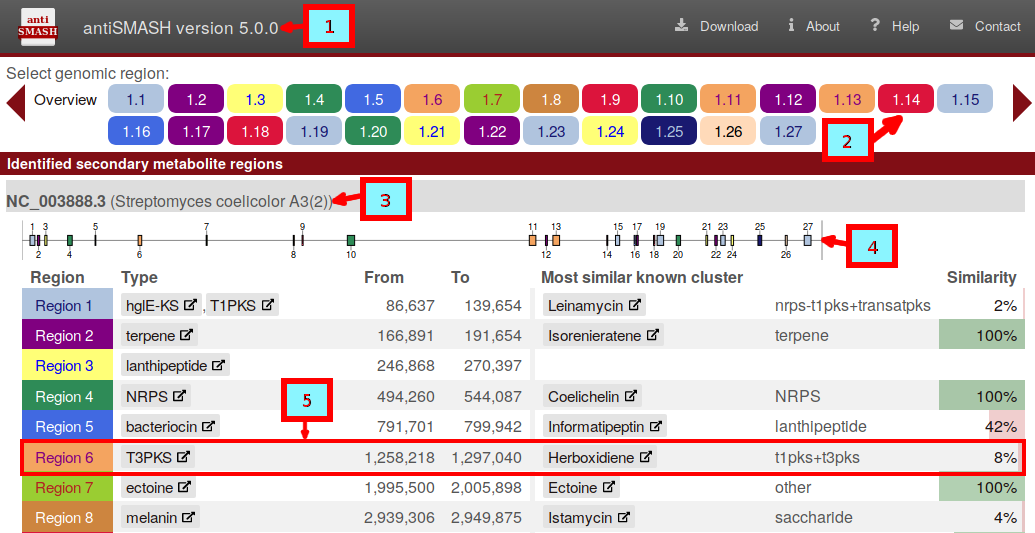
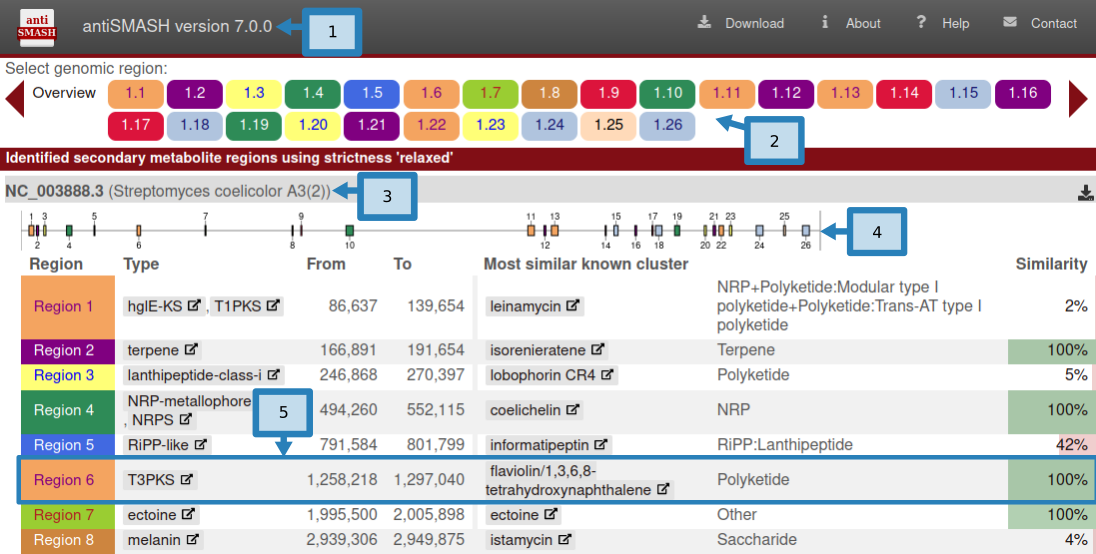
understanding_output: update screenshots to antiSMASH 7

diff --git a/docs/understanding_output/results.md b/docs/understanding_output/results.md
@@ -1,6 +1,6 @@
 # Region Results page
 
-![Region display](/img/region_display.jpg)
+![Region display](/img/region_display.png)
 
 In the upper panel, "Gene cluster description", information is given about each
 gene cluster that was detected. In the upper line, the biosynthetic type and
@@ -16,10 +16,11 @@ be displayed above the gene.
 
 ### Gene details
 
-![Gene details display](/img/gene_details.jpg)
+![Gene details display](/img/gene_details.png)
 
 Clicking the gene will provide more information on
-the gene: its annotation, its smCOG (secondary metabolism gene family), its
+the gene: identifiers, existing product annotation,
+gene functions (including smCOG, or secondary metabolism gene family, if enabled), its
 location, and cross-links specific to that gene.
 
 ## Detailed annotation
@@ -36,13 +37,16 @@ Individual prediction tools will add tabs here to provide their results.
 
 For predicted modular polyketide
 synthase (PKS) and/or nonribosomal peptide synthetase (NRPS) proteins, you will
-find the domain annotations.
+find the domain annotations and any modules that are detected.
 
-Clicking on a domain image will prompt more
-information to be displayed, such as the name of the detected domain, its
-precise location, any substrate specificites predicted, and a link to run Blast
-on the domain.  For predicted Lantipeptide clusters, the predicted core peptide
-sequences of all identified prepeptides is displayed.
+The module overlays can be hidden by enabling the "Show module domains" option.
+
+![Domain display hiding modules](/img/DetailedDomainAnnotation_hidden.png)
+
+Clicking on a domain will display more
+information, such as the name of the detected domain, its
+precise location, any substrate specificites or other predictions, and a link to run Blast
+on the domain.
 A list of detected domains can be found [here](/modules/nrps_pks_domains.md).
 
 ### Identifying similar BGCs
@@ -83,7 +87,7 @@ A chemical structure is displayed for NRPS and Type I PKS metabolites, which is 
 
 ### Downloading results
 
-![Main menu](/img/download_results.jpg)
+![Main menu](/img/download_results.png)
 
 In the upper right, a small list of buttons offers further functionality. The
 question-mark button will get you to this help page. The exclamation-mark button

diff --git a/docs/understanding_output/regions.md b/docs/understanding_output/regions.md
@@ -22,7 +22,7 @@ After the *protocluster* features are assigned (note: there can be multiple prot
 
 ![Balhimycin biosynthetic gene cluster](/img/bal-cluster.png)
 
-Thus, the displayed region contains the `NRPS` *protocluster* (green bar) and a `T3PKS` *protocluster* yellow bar.
+Thus, the displayed region contains the `NRPS` *protocluster* (green bar) and a `T3PKS` *protocluster* (yellow bar).
 As their neighbourhoods overlap, they are assigned to a *candidate cluster*.
 
 ###Candidate cluster types
